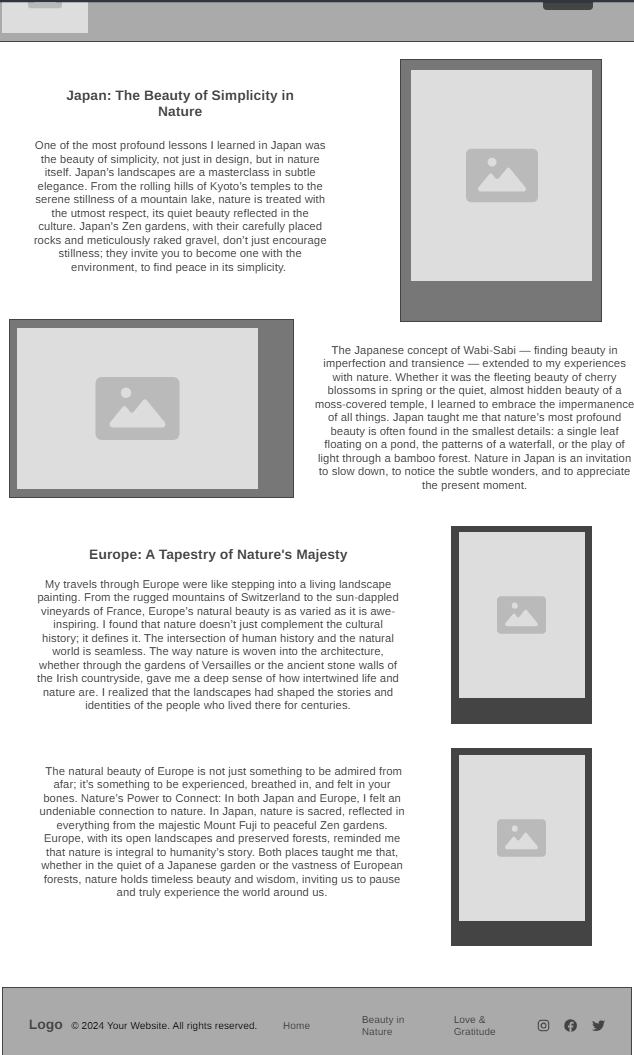
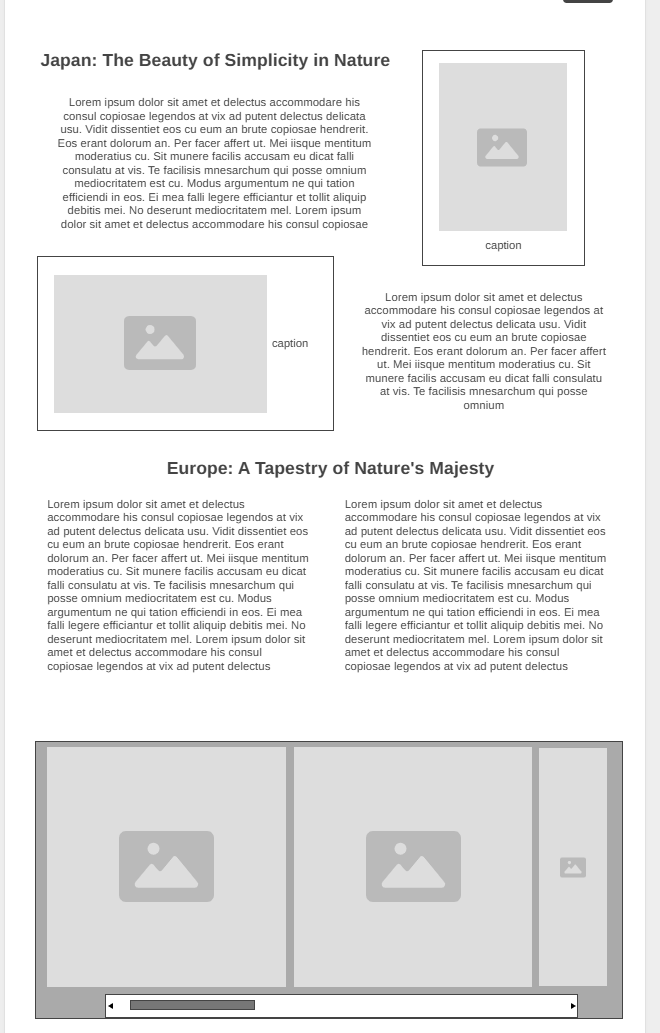
stuff

diff --git a/travel/euro-jap-travel.html b/travel/euro-jap-travel.html
@@ -41,18 +41,21 @@
                 </div>
             </section>
             <section class="euro-section">
-                <div class="text-wrapper">
-                    <h2 class="euro-title">Europe: A Tapestry of Nature's Majesty</h2>
-                    <p>My travels through Europe were like stepping into a living landscape painting. From the rugged mountains of Switzerland to the sun-dappled vineyards of France, Europe’s natural beauty is as varied as it is awe-inspiring. I found that nature doesn’t just complement the cultural history; it defines it. The intersection of human history and the natural world is seamless. The way nature is woven into the architecture, whether through the gardens of Versailles or the ancient stone walls of the Irish countryside, gave me a deep sense of how intertwined life and nature are. I realized that the landscapes had shaped the stories and identities of the people who lived there for centuries. The natural beauty of Europe is not just something to be admired from afar; it’s something to be experienced, breathed in, and felt in your bones.</p>
+                <h2 class="euro-title">Europe: A Tapestry of Nature's Majesty</h2>
+                <div class="text">
+                    <p>My travels through Europe were like stepping into a living landscape painting. From the rugged mountains of Switzerland to the sun-dappled vineyards of France, Europe’s natural beauty is as varied as it is awe-inspiring. I found that nature doesn’t just complement the cultural history; it defines it. The intersection of human history and the natural world is seamless. The way nature is woven into the architecture, whether through the gardens of Versailles or the ancient stone walls of the Irish countryside, gave me a deep sense of how intertwined life and nature are. I realized that the landscapes had shaped the stories and identities of the people who lived there for centuries. </p>
                     
-                    <p>In both Japan and Europe, I felt an undeniable connection to nature. In Japan, nature is sacred, reflected in everything from the majestic Mount Fuji to peaceful Zen gardens. Europe, with its open landscapes and preserved forests, reminded me that nature is integral to humanity’s story. Both places taught me that, whether in the quiet of a Japanese garden or the vastness of European forests, nature holds timeless beauty and wisdom, inviting us to pause and truly experience the world around us.</p>
+                    <p>The natural beauty of Europe is not just something to be admired from afar; it’s something to be experienced, breathed in, and felt in your bones. In both Japan and Europe, I felt an undeniable connection to nature. In Japan, nature is sacred, reflected in everything from the majestic Mount Fuji to peaceful Zen gardens. Europe, with its open landscapes and preserved forests, reminded me that nature is integral to humanity’s story. Both places taught me that, whether in the quiet of a Japanese garden or the vastness of European forests, nature holds timeless beauty and wisdom, inviting us to pause and truly experience the world around us.</p>
                 </div>
                 <div class="scroll-container">
-                    <img src="images/euro/mountain-lake.jpg" alt="mountain">
+                    <img src="images/euro/swiss-mount.jpg" alt="swiss mountains">
                     <img src="images/euro/pavillion.jpg" alt="pavillion">
                     <img src="images/euro/bee-and-lavender.jpg" alt="bee-and-lavender">
                     <img src="images/japan/waterfall.jpg" alt="waterfall">
-                    <img src="images/home/lavender-field.jpg" alt="lavender-field">
+                    <img src="images/japan/cherry-tree.jpg" alt="cherry tree">
+                    <img src="images/euro/garden2.jpg" alt="swirly garden">
+                    <img src="images/euro/greece.JPG" alt="greece">
+                    <img src="images/euro/mountain-lake.jpg" alt="mountain">
                 </div>
             </section>
         </main>

diff --git a/travel/travel_siteplan.html b/travel/travel_siteplan.html
@@ -153,6 +153,14 @@
       <img class="eur-jap-img" src="images/japan/zen-garden.jpg" alt="japanese garden">
       <img class="eur-jap-img" src="images/euro/pavillion.jpg" alt="pavillion of Versailles">
       <img class="eur-jap-img" src="images/euro/mountain-lake.jpg" alt="mountains of Switzerland">
+      <img class="eur-jap-img" src="images/euro/bee-and-lavender.jpg" alt="lavernder">
+      <img class="eur-jap-img" src="images/japan/waterfall.jpg" alt="waterfall">
+      <img class="eur-jap-img" src="images/japan/cherry-tree.jpg" alt="cherry tree">
+      <img class="eur-jap-img" src="images/euro/garden2.jpg" alt="swirly garden">
+      <img class="eur-jap-img" src="images/euro/greece.JPG" alt="greece">
+      <img class="eur-jap-img" src="images/euro/swiss-mount.jpg" alt="swiss mountains">
+
+
         
       </ul>
       <h2>Love & Gratitude</h2>
@@ -187,7 +195,7 @@
 
       <h3>Beauty in Nature</h3>
       <p>         
-        The nav was cut off but it is the exact same as the home page.
+        The nav was cut off but it is the exact same as the home page. Also the last images are a scroll gallery.
       </p>
       <img src="images/beauty-in-nature-wireframe.png" alt="page 2 wireframe">
 

diff --git a/travel/styles/travel.css b/travel/styles/travel.css
@@ -283,14 +283,12 @@ footer .social img{
   gap: 40px;
 }
 
-.euro-section .text-wrapper {
-  flex: 1 1 45%;
-  display: flex;
-  flex-direction: column;
+.euro-section .text {
+  display: grid;
+  grid-template-columns: 1fr 1fr;
   justify-content: flex-start;
-  gap: 20px;
-  text-align: center;
-  align-items: center;
+  gap: 50px;
+  text-align: left;
 }
 
 .euro-section .images-wrapper {
@@ -323,6 +321,7 @@ div.scroll-container {
   overflow: auto;
   white-space: nowrap;
   padding: 10px;
+  margin: 50px auto;
 }
 
 div.scroll-container img {
@@ -369,6 +368,7 @@ margin-bottom: 100px;
 #examples-box{
   display: grid;
   grid-template-columns: 1fr 1fr 1fr;
+  background-color: #FB9F89;
 }
 /*  first button */
 .extra{
@@ -388,7 +388,7 @@ label{
     position: relative;
     padding: 1ex;
     background-color: #5A3A31;
-    color: antiquewhite;
+    color: white;
     border-radius: 10px;
 }
 
@@ -398,7 +398,7 @@ label::before{
 
 input[type="checkbox"]:checked ~ label:before{
     content: "Read Less";
-}
+  }
 
 .dots:has(~input[type="checkbox"]:checked){
     display: none;
